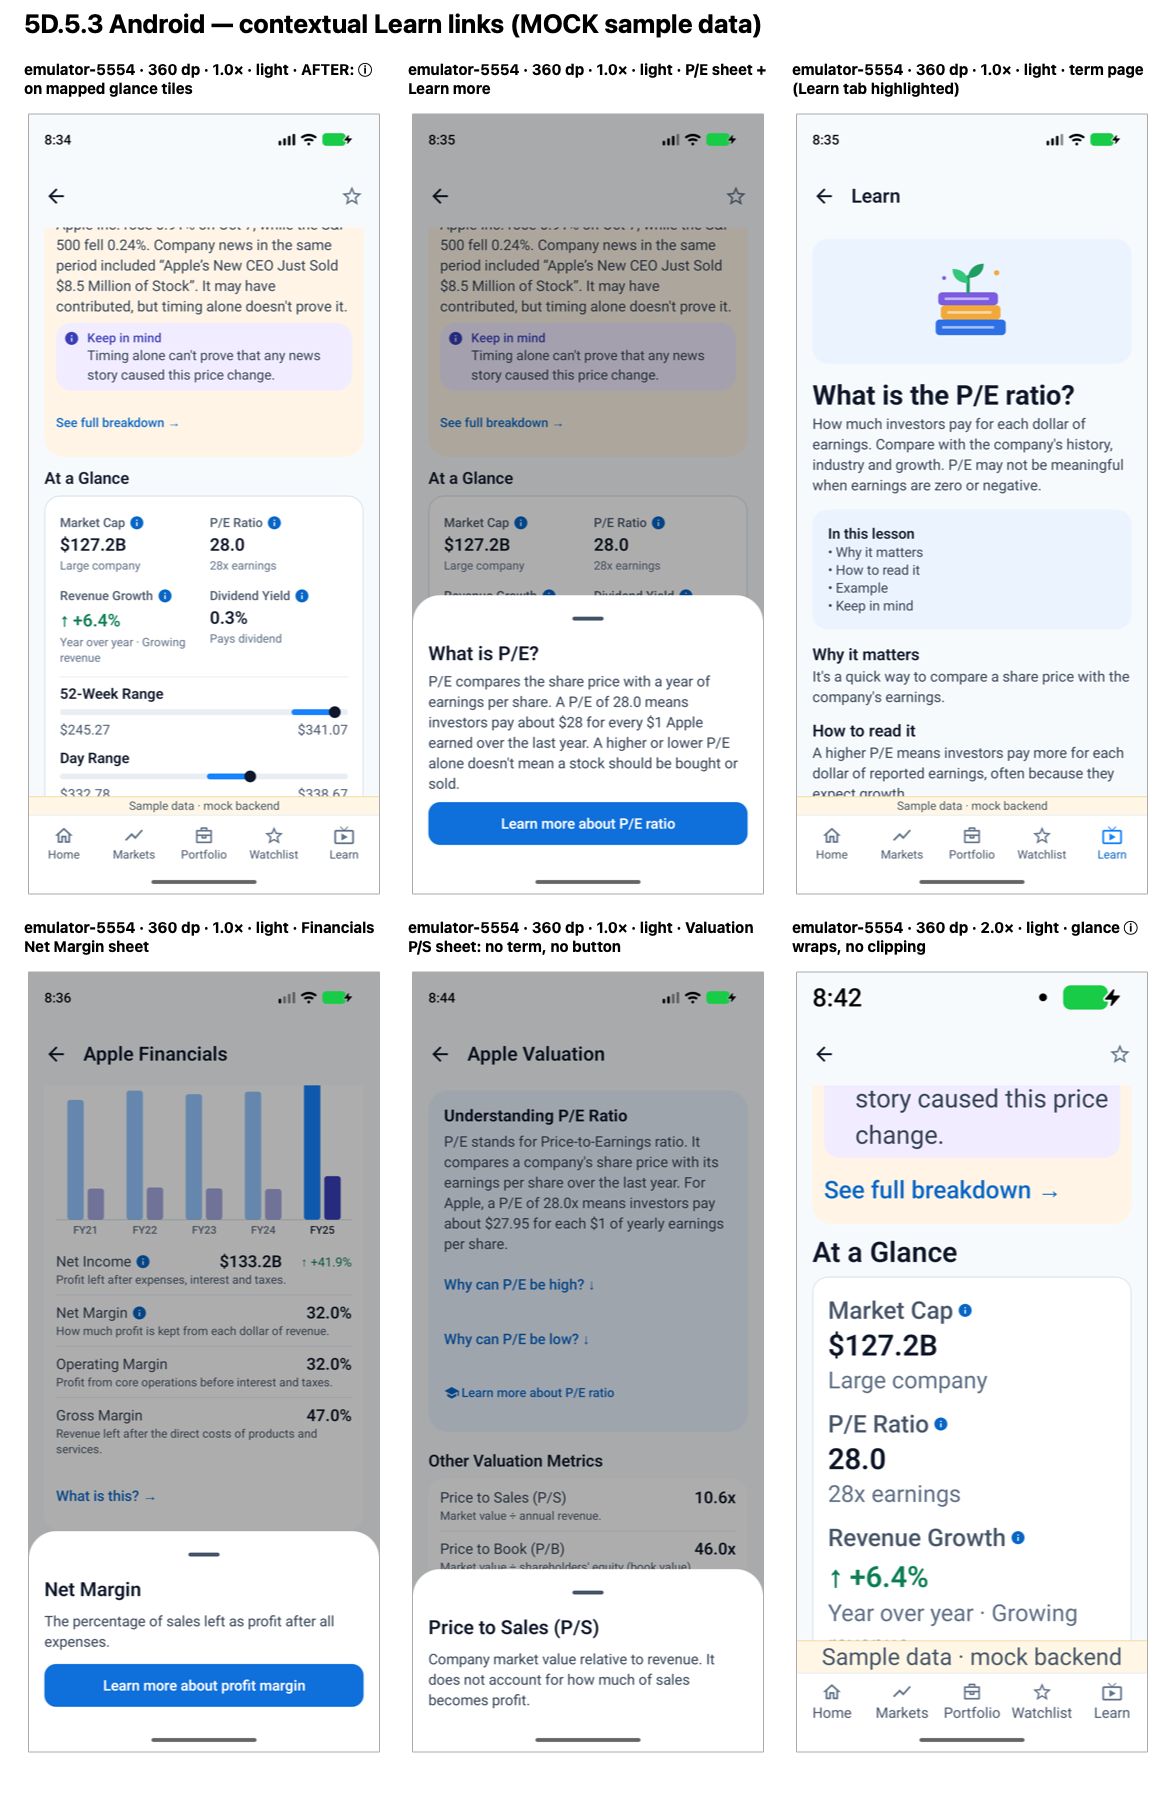
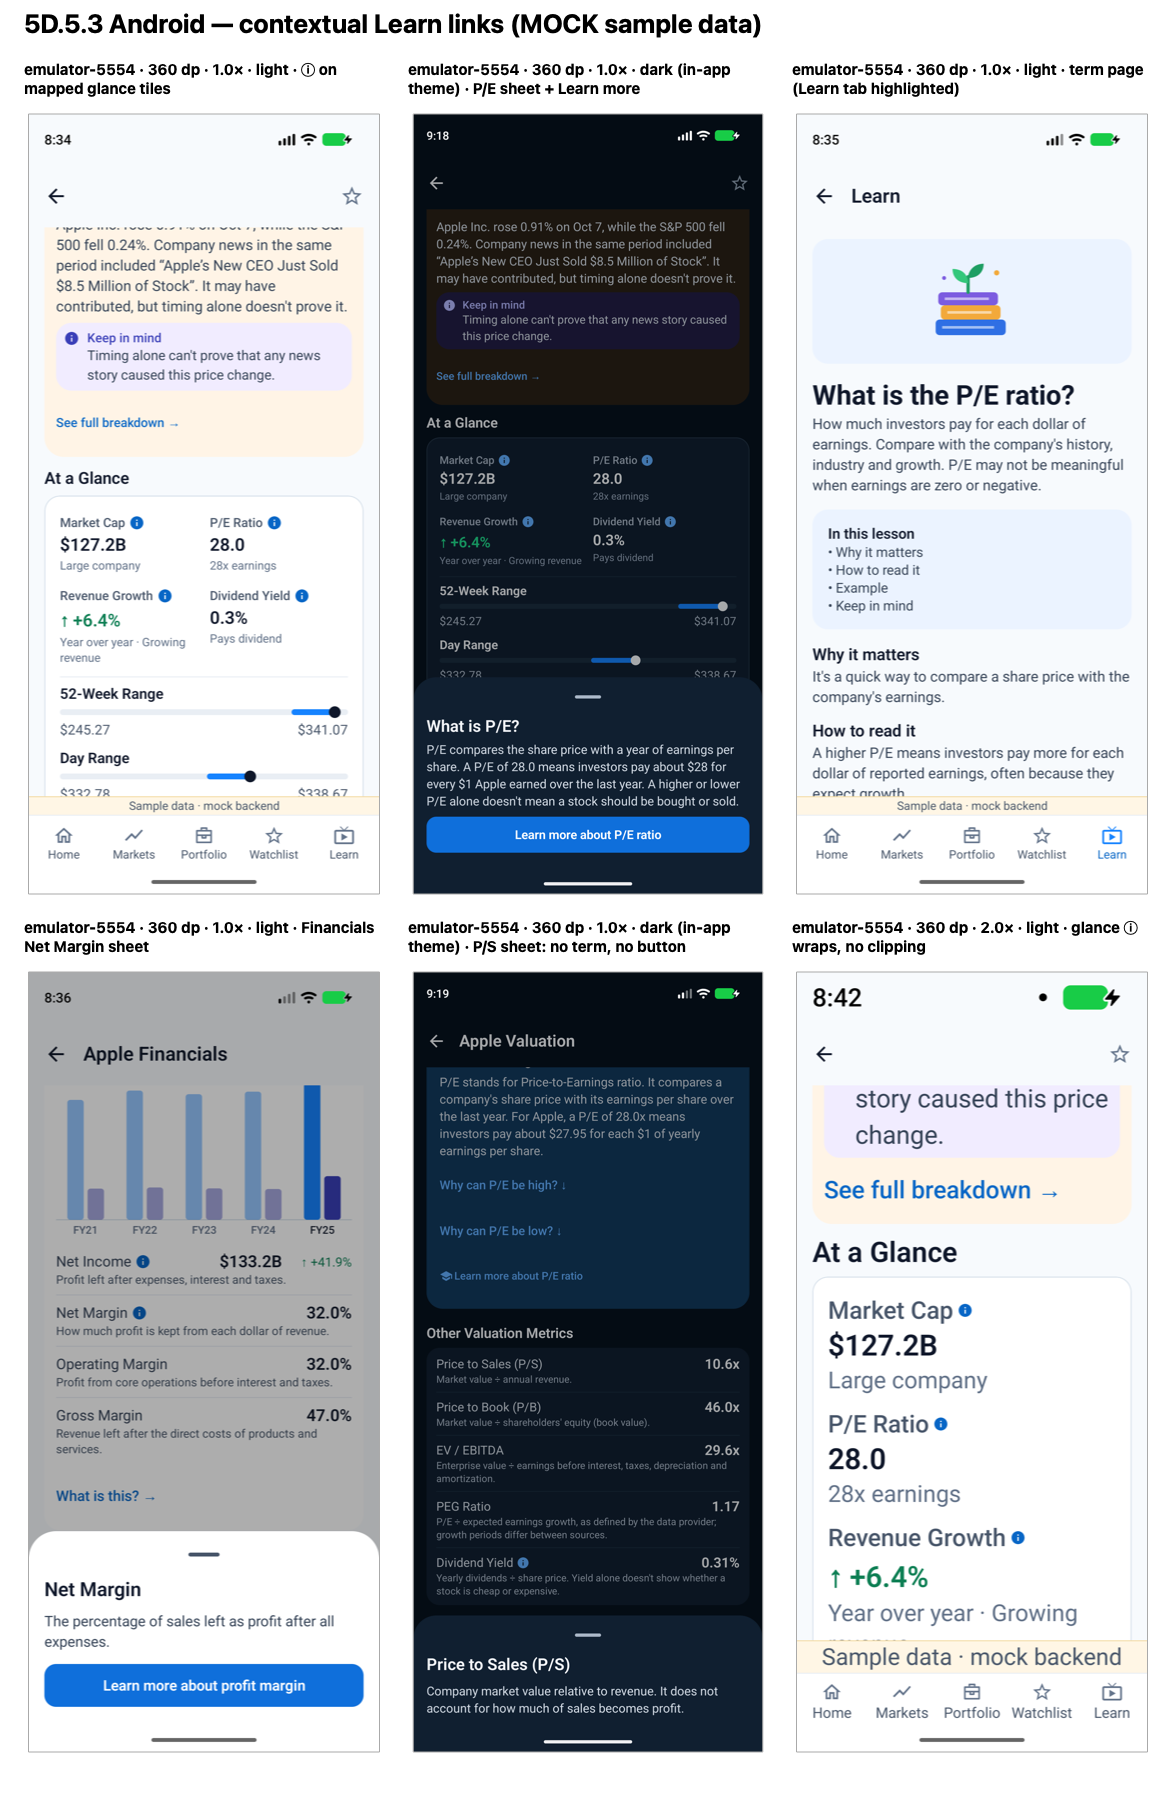
Record the closure of Global UI Refinement Phase 5D.5.3 contextual learning with the Android dark check, sheet consistency and accessibility review, and the remaining follow-ups
- Android dark via the in-app theme: PASS (glance info marks, mapped P/E sheet with Learn button, unmapped P/S sheet without); theme restored to Light.
- Mapped and unmapped explanation sheets share one component per platform; accessibility checked in code and the UI tree (headings, "Explain {label}" button roles, 48 dp targets).
- Report section 8, review package and Android contact sheet (dark tiles) updated; outstanding: iOS live Dynamic Type refresh, TalkBack/VoiceOver, iOS signed-in regression, Android Key Ratios contextual learning, intermittent PortfolioSessionStateTest timeout.
- PROJECT_HANDOFF.md, project-status.md and CLAUDE.md updated.

Changed region(s): [[0.3367, 0.0311, 0.6735, 0.9956], [0.0306, 0.0311, 0.1531, 0.0622], [0.2755, 0.0311, 0.3061, 0.0622]]

diff --git a/docs/PROJECT_HANDOFF.md b/docs/PROJECT_HANDOFF.md
@@ -1,14 +1,38 @@
-# StockSteps — session handoff (2026-10-15: Phase 5D.5.3 contextual learning committed; next: owner review of the review package)
+# StockSteps — session handoff (2026-10-15: Phase 5D.5.3 contextual learning CLOSED; next: follow-ups below, then the next refinement step after owner direction)
 
-Read order for a new session: `CLAUDE.md` → `docs/AI_REVIEW_WORKFLOW.md` (review packages, evidence and approval rules) → **§PHASE-5D-5-3-2026-10-15 below** → `docs/GLOBAL_UI_REFINEMENT_PHASE5D_5_3.md` → `docs/reviews/phase5d_5_3/CHATGPT_REVIEW_PACKAGE.md` → `docs/GLOBAL_UI_REFINEMENT_PHASE5D_5_3_PLAN.md` → §PHASE-5D-5-2-CLOSED-2026-10-15 → `docs/GLOBAL_UI_REFINEMENT_PHASE5D_5_2.md` §7 → §PHASE-5D-5-2-R2-2026-10-15 → `docs/reviews/phase5d_5_2_r2/CHATGPT_REVIEW_PACKAGE.md` → §PHASE-5D-5-2-2026-10-15 → `docs/GLOBAL_UI_REFINEMENT_PHASE5D_5_2.md` → `docs/reviews/phase5d_5_2/CHATGPT_REVIEW_PACKAGE.md` → §PHASE-5D-5-1C-2026-10-14 → `docs/GLOBAL_UI_REFINEMENT_PHASE5D_5_1C.md` → `docs/GLOBAL_UI_REFINEMENT_PHASE5D_5_1C_PLAN.md` → §PHASE-5D-5-1B-2026-10-14 → `docs/GLOBAL_UI_REFINEMENT_PHASE5D_5_1B.md` → `docs/DAILY_BRIEF_UI_REFINEMENT_PLAN.md` → §PHASE-5D-5-1-2026-10-14 → `docs/GLOBAL_UI_REFINEMENT_PHASE5D_5_1.md` → `docs/GLOBAL_UI_REFINEMENT_PHASE5D_5_PLAN.md` → §SESSION-END-2026-10-14-EARNINGS → `docs/GLOBAL_UI_REFINEMENT_PHASE5D_4_3.md` → `_5D_4_2.md` → `_5D_4.md` (incl. §5D.4.1) → `_5D_3.md` → `_5D_2.md` → §SESSION-END-2026-10-14 (earlier, superseded) → `docs/GLOBAL_UI_REFINEMENT_PHASE5D_AUDIT.md` → `docs/GLOBAL_UI_REFINEMENT_PHASE5D_1.md` / `_1A.md` / `_1B.md` → §PHASE-E-2-2026-10-13 → §SESSION-END-2026-10-13-PORTFOLIO → §PHASE-E-1-2026-10-13 → §PHASE-E-2026-10-13 → §D3-1-2026-10-13 → §D3-2026-10-13 → §D2-2026-10-13 → §D1-1-CLOSURE-2026-10-13 → §HANDOFF-2026-10-13-END → §D1-1-2026-10-13 → §D1-2026-10-12 → §C1-CLEANUP-2026-10-12 → §C1-CLOSURE-2026-10-12 → §HANDOFF-2026-10-12-END → §PORTFOLIO-PC1-2026-10-12 → §PORTFOLIO-PC-2026-10-12 → §PORTFOLIO-PB1-2026-10-12 → §PORTFOLIO-PB-2026-10-12 → §PORTFOLIO-PA-2026-10-12 → §HANDOFF-2026-10-12 → §A11Y-CLOSURE-5C → §FINAL-POLISH-5C → §CLOSURE-5C1-PA → §HANDOFF-2026-10-11 → §PHASE5C1 → §PHASE5C → §PHASE5B-CLOSURE → §PHASE5B → §NEXT → §PHASE5A1 → §PHASE5A → §PHASE4C3 → §PHASE4C2 → §PHASE4C1 → §PHASE4C → §PHASE4B1 → §PHASE4B → §PHASE4A → §SESSION → §000000000…§00000 (Global UI Refinement phases, newest first) →
+Read order for a new session: `CLAUDE.md` → `docs/AI_REVIEW_WORKFLOW.md` (review packages, evidence and approval rules) → **§PHASE-5D-5-3-CLOSED-2026-10-15 below** → `docs/GLOBAL_UI_REFINEMENT_PHASE5D_5_3.md` §8 → §PHASE-5D-5-3-2026-10-15 → `docs/GLOBAL_UI_REFINEMENT_PHASE5D_5_3.md` → `docs/reviews/phase5d_5_3/CHATGPT_REVIEW_PACKAGE.md` → `docs/GLOBAL_UI_REFINEMENT_PHASE5D_5_3_PLAN.md` → §PHASE-5D-5-2-CLOSED-2026-10-15 → `docs/GLOBAL_UI_REFINEMENT_PHASE5D_5_2.md` §7 → §PHASE-5D-5-2-R2-2026-10-15 → `docs/reviews/phase5d_5_2_r2/CHATGPT_REVIEW_PACKAGE.md` → §PHASE-5D-5-2-2026-10-15 → `docs/GLOBAL_UI_REFINEMENT_PHASE5D_5_2.md` → `docs/reviews/phase5d_5_2/CHATGPT_REVIEW_PACKAGE.md` → §PHASE-5D-5-1C-2026-10-14 → `docs/GLOBAL_UI_REFINEMENT_PHASE5D_5_1C.md` → `docs/GLOBAL_UI_REFINEMENT_PHASE5D_5_1C_PLAN.md` → §PHASE-5D-5-1B-2026-10-14 → `docs/GLOBAL_UI_REFINEMENT_PHASE5D_5_1B.md` → `docs/DAILY_BRIEF_UI_REFINEMENT_PLAN.md` → §PHASE-5D-5-1-2026-10-14 → `docs/GLOBAL_UI_REFINEMENT_PHASE5D_5_1.md` → `docs/GLOBAL_UI_REFINEMENT_PHASE5D_5_PLAN.md` → §SESSION-END-2026-10-14-EARNINGS → `docs/GLOBAL_UI_REFINEMENT_PHASE5D_4_3.md` → `_5D_4_2.md` → `_5D_4.md` (incl. §5D.4.1) → `_5D_3.md` → `_5D_2.md` → §SESSION-END-2026-10-14 (earlier, superseded) → `docs/GLOBAL_UI_REFINEMENT_PHASE5D_AUDIT.md` → `docs/GLOBAL_UI_REFINEMENT_PHASE5D_1.md` / `_1A.md` / `_1B.md` → §PHASE-E-2-2026-10-13 → §SESSION-END-2026-10-13-PORTFOLIO → §PHASE-E-1-2026-10-13 → §PHASE-E-2026-10-13 → §D3-1-2026-10-13 → §D3-2026-10-13 → §D2-2026-10-13 → §D1-1-CLOSURE-2026-10-13 → §HANDOFF-2026-10-13-END → §D1-1-2026-10-13 → §D1-2026-10-12 → §C1-CLEANUP-2026-10-12 → §C1-CLOSURE-2026-10-12 → §HANDOFF-2026-10-12-END → §PORTFOLIO-PC1-2026-10-12 → §PORTFOLIO-PC-2026-10-12 → §PORTFOLIO-PB1-2026-10-12 → §PORTFOLIO-PB-2026-10-12 → §PORTFOLIO-PA-2026-10-12 → §HANDOFF-2026-10-12 → §A11Y-CLOSURE-5C → §FINAL-POLISH-5C → §CLOSURE-5C1-PA → §HANDOFF-2026-10-11 → §PHASE5C1 → §PHASE5C → §PHASE5B-CLOSURE → §PHASE5B → §NEXT → §PHASE5A1 → §PHASE5A → §PHASE4C3 → §PHASE4C2 → §PHASE4C1 → §PHASE4C → §PHASE4B1 → §PHASE4B → §PHASE4A → §SESSION → §000000000…§00000 (Global UI Refinement phases, newest first) →
 `docs/GLOBAL_UI_REFINEMENT_PLAN.md` → `docs/GLOBAL_UI_REFINEMENT_PHASE3_PORTFOLIO.md` + `docs/GLOBAL_UI_REFINEMENT_PHASE3_1_POLISH.md` →
 §0000 (Phase 5C.1) → `docs/project-status.md` §0 → root `PROJECT_HANDOFF.md` → the code.
 Always start with `git status` and `git log -5 --oneline`; the repository is authoritative when docs disagree.
 
+## PHASE-5D-5-3-CLOSED-2026-10-15. Contextual learning closed — START HERE
+
+- **Status:** the owner approved closing Phase 5D.5.3. The implementation is `3b7a7f5` (pushed).
+- **Current commit:** "Record the closure of Global UI Refinement Phase 5D.5.3 contextual learning with the Android dark check, sheet consistency
+  and accessibility review, and the remaining follow-ups" (this commit). It is local only: **not pushed**, pending the owner's approval.
+- **Final verification:** `docs/GLOBAL_UI_REFINEMENT_PHASE5D_5_3.md` §8.
+  - Scope check: the 36 files of `3b7a7f5` all belong to the phase; the Portfolio worktree is untouched.
+  - Android dark via the in-app theme: PASS (restored to Light).
+  - Mapped vs unmapped sheets: consistent (one component; the button only with a term).
+  - Accessibility in code and UI tree: headings, "Explain {label}" button roles, 48 dp targets.
+  - The Android contact sheet now includes the dark tiles.
+- **Outstanding items (keep open):**
+  1. iOS live Dynamic Type refresh: rows resize after reopening the screen (existing limit).
+  2. TalkBack NOT RUN; VoiceOver BLOCKED (device).
+  3. iOS signed-in regression: BLOCKED (guest mode).
+  4. Android Company Details "Key Ratios" card: contextual-learning opportunity (EPS, Debt to Equity have terms).
+  5. Intermittent `PortfolioSessionStateTest` timeout (core JVM); fix uncommitted in worktree `charming-hodgkin-98e850` (don't modify from here).
+  - Also noted: the Settings theme chips don't report a selected state in the UI tree (outside this phase).
+- **Still open from earlier:** see §PHASE-5D-5-2-CLOSED-2026-10-15 (iOS AX5 term-footer icons, `UserDataRepositoriesTest`, iOS Earnings Details
+  after sign-in, iOS Home AX5 heading).
+- **Environment:** MOCK server stopped; emulator Light theme, font 1.0, `adb reverse` removed; simulator light, Default text size, guest mode.
+- **Next:** push this closure commit on the owner's request; then Global UI Refinement step 7 (Settings, auth, remaining screens) after owner
+  direction (plan first).
+
 ## PHASE-5D-5-3-2026-10-15. Contextual learning (Phase 5D.5.3) — START HERE
 
 ### 0. Repository state
-- **Current commit:** "Add contextual Learn links for Global UI Refinement Phase 5D.5.3 with an info mark on metrics that have a Learn term, explanation sheets for Financials and Valuation rows, and Learn more buttons that open the term page on the same stack on Android and iOS" (this commit, pushed). Base: `600c295`.
+- **Implementation commit:** `3b7a7f5`, "Add contextual Learn links for Global UI Refinement Phase 5D.5.3 with an info mark on metrics that have a Learn term, explanation sheets for Financials and Valuation rows, and Learn more buttons that open the term page on the same stack on Android and iOS" (pushed). Base: `600c295`.
 - Plan: `docs/GLOBAL_UI_REFINEMENT_PHASE5D_5_3_PLAN.md` (approved: A, then B+C, then D; D-C1 to D-C6 as recommended).
 - Report: `docs/GLOBAL_UI_REFINEMENT_PHASE5D_5_3.md`. Review package: `docs/reviews/phase5d_5_3/` (report, Android/iOS contact sheets, focused
   diff; `captures/` stays local and git-ignored). Reference images: `docs/design/phase5d_5_3/`.

diff --git a/docs/GLOBAL_UI_REFINEMENT_PHASE5D_5_3.md b/docs/GLOBAL_UI_REFINEMENT_PHASE5D_5_3.md
@@ -73,7 +73,7 @@ rebuilt (PASS) and re-checked on device. No Kotlin changed after the test run.
 | Valuation: "Learn more about P/E ratio" link → term; Back → Apple Valuation | PASS |
 | Valuation: P/S sheet shows its explanation, no Learn button | PASS |
 | 2.0× glance: tiles stack, ⓘ inline after the label, no clipping | PASS |
-| Dark theme | NOT RUN (the app keeps its own Light setting, so system night mode has no effect; not changed for this check) |
+| Dark theme | PASS at closure (Settings → Appearance → Dark, then restored to Light): glance ⓘ, P/E sheet with button, P/S sheet without; see §8 |
 
 ### iOS: iPhone 16 simulator, MOCK, guest mode (never signed in)
 | Check | Result |
@@ -87,19 +87,53 @@ rebuilt (PASS) and re-checked on device. No Kotlin changed after the test run.
 | Dark (Default size): Valuation link and rows readable | PASS |
 | AX5 (dark): glance labels wrap with the ⓘ kept on the last word; sheet button wraps to full width and is reachable by scrolling | PASS |
 
-## 5. Known issues and limits
-- **iOS live Dynamic Type:** switching to AX5 while Valuation was open resized the headings but not the rows until the screen was reopened. This
-  is the existing live-refresh limit noted in `CLAUDE.md`, not new in this phase. A fresh render at AX5 is correct.
-- **iOS "Understand Apple" → Valuation row:** this row opens the P/E sheet (existing behaviour), which now also offers the Learn button.
-- **Company Details "Key Ratios" card** (Android) stays non-interactive. It is not in the approved scope.
-- **Screen readers:**
-  - TalkBack: NOT RUN.
-  - VoiceOver: BLOCKED (needs a device).
-  - The rows carry "Explain {label}" labels and hints, but they are not verified by ear.
-- **iOS signed-in flows:** BLOCKED (guest mode only; Claude never signs in). The changed screens don't depend on sign-in.
+## 5. Known issues and limits (outstanding items)
+1. **iOS live Dynamic Type refresh:** switching to AX5 while Valuation is open resizes the headings but not the rows until the screen is
+   reopened. This is the existing live-refresh limit noted in `CLAUDE.md`, not new in this phase. A fresh render at AX5 is correct.
+2. **TalkBack and VoiceOver:**
+   - TalkBack: NOT RUN (its first start asks for a notification permission the owner must answer).
+   - VoiceOver: BLOCKED (needs a device).
+   - Labels, roles and target sizes were checked in code and in the UI tree (§8), but not by ear.
+3. **iOS signed-in regression:** BLOCKED (guest mode only; Claude never signs in). The changed screens don't depend on sign-in, but signed-in
+   navigation around them is unverified.
+4. **Android Company Details "Key Ratios" card:** still non-interactive. This is a contextual-learning opportunity (its EPS and Debt to Equity
+   rows have terms), left for a later phase; not in the approved scope.
+5. **Intermittent `PortfolioSessionStateTest` timeout** (core JVM, 5 s): failed once in the full run and passed on rerun. Unrelated to this
+   phase; the candidate fix is uncommitted in worktree `charming-hodgkin-98e850`, which this phase did not touch.
+- Also noted: the iOS "Understand Apple" → Valuation row opens the P/E sheet (existing behaviour), which now also offers the Learn button.
 
 ## 6. Deviations from the plan
 - One alignment fix (iOS glance sheet keyed by `educationId`, see §4). Nothing else.
 
 ## 7. Verdict
-**PASS WITH CONDITIONS**: Android dark, TalkBack and VoiceOver remain open. Committed and pushed at the owner's request; the open checks above remain.
+**PASS WITH CONDITIONS**: approved by the owner and closed; items 2 and 3 in §5 remain open.
+
+## 8. Closure verification (2026-10-15)
+- **Scope:**
+  - The implementation is commit `3b7a7f5` ("Add contextual Learn links for Global UI Refinement Phase 5D.5.3 …", pushed): 36 files, all in this
+    phase (core mapping and test, tagged rows, shared/iOS Company Details, Financials and Valuation screens, design-system parameters, docs,
+    review package, reference images).
+  - The working tree was clean before closure, and the Portfolio worktree `charming-hodgkin-98e850` was not modified.
+  - The closure commit contains documentation and the updated Android contact sheet only.
+- **Android dark (in-app theme):** PASS.
+  - Setup: emulator-5554, MOCK, 1.0×, Settings → Appearance → Dark.
+  - Glance ⓘ markers are visible on the dark surface.
+  - The mapped P/E sheet shows the company sentence and "Learn more about P/E ratio" (primary fill, white text).
+  - The unmapped Valuation P/S sheet uses the same handle, title and body, with no button.
+  - The theme was restored to Light afterwards; the MOCK server is stopped and `adb reverse` removed.
+  - Captures: Android contact sheet tiles 2 and 5; originals in `docs/reviews/phase5d_5_3/captures/` (git-ignored).
+- **Mapped vs unmapped sheet consistency:** PASS.
+  - Both kinds go through one component per platform: Compose `MetricExplanationSheet` / `EducationSheet`, and iOS
+    `MetricExplanationSheet` / `InfoSheet`.
+  - The Learn button (`MetricLearnMore` / `MetricLearnMoreButton`) renders nothing when the term is null, so an unmapped sheet differs only by the
+    missing button.
+  - Confirmed on device in light and dark (Android) and in light, dark and AX5 (iOS).
+- **Accessibility (code and UI tree):** PASS, with screen readers still open (§5 item 2).
+  - Sheet titles are headings.
+  - Tappable rows use `clickable(onClickLabel = "Explain {label}", role = Role.Button)` with a 48 dp minimum height (iOS: a 48 pt `Button`
+    with an accessibility hint).
+  - The ⓘ is decorative; the click label carries the meaning.
+  - UI tree at 480 dpi: the Learn button is 144 px tall (48 dp) and the sheet handle 144 × 144 px.
+  - The sheet closes before navigating.
+  - Observed outside this phase: the Settings theme chips don't report a selected state in the UI tree (seen while switching the theme for
+    this check).

diff --git a/docs/project-status.md b/docs/project-status.md
@@ -6,13 +6,25 @@ milestone log and validation history are in `PROJECT_HANDOFF.md`.
 
 ## 0. Current task and next steps (read first)
 
+**2026-10-15 — Phase 5D.5.3 contextual learning CLOSED (owner approval).**
+- Implementation `3b7a7f5` (pushed). Closure verification: `docs/GLOBAL_UI_REFINEMENT_PHASE5D_5_3.md` §8.
+  - Android dark via the in-app theme: PASS.
+  - Mapped and unmapped sheets: consistent.
+  - Accessibility in code and UI tree: PASS.
+- **Outstanding:**
+  - iOS live Dynamic Type refresh (existing limit);
+  - TalkBack NOT RUN, VoiceOver BLOCKED;
+  - iOS signed-in regression BLOCKED;
+  - Android "Key Ratios" contextual-learning opportunity;
+  - intermittent `PortfolioSessionStateTest` timeout.
+- **Next:** Global UI Refinement step 7 after owner direction.
+
 **2026-10-15 — Phase 5D.5.3 contextual learning (committed and pushed as "Add contextual Learn links for Global UI Refinement Phase 5D.5.3 with an info mark on metrics that have a Learn term, explanation sheets for Financials and Valuation rows, and Learn more buttons that open the term page on the same stack on Android and iOS").**
 - Company Details glance tiles, Financials rows and Valuation rows explain their metric; metrics with a Learn term show ⓘ and "Learn more about
   {term}", which opens the term page on the same stack (Back returns to the stock).
 - Mapping by id only in core `MetricLearnTerms` (tested); no new educational text, no backend changes.
 - Report `docs/GLOBAL_UI_REFINEMENT_PHASE5D_5_3.md`; review package `docs/reviews/phase5d_5_3/`.
-- **Outstanding:** Android dark NOT RUN; screen readers NOT RUN/BLOCKED; iOS signed-in BLOCKED.
-- **Next:** owner review.
+- Closed; see the entry above.
 
 **2026-10-15 — Phase 5D.5.2 Learn CLOSED (owner approval).**
 - Implementation `057d6e6` + `0730773` (pushed). Final verification and limitations: `docs/GLOBAL_UI_REFINEMENT_PHASE5D_5_2.md` §7.

diff --git a/CLAUDE.md b/CLAUDE.md
@@ -15,19 +15,19 @@ Philosophy: **NUMBER → CONTEXT → EXPLANATION → EDUCATION**. Journey: Learn
 Understand. It is not a trading terminal and never gives buy/sell/hold advice, scores, ratings or
 price predictions. Advanced analytics belong to a separate product, **PortIQX**.
 
-## Current task (as of 2026-10-15, Phase 5D.5.3 contextual learning committed)
+## Current task (as of 2026-10-15, Phase 5D.5.3 contextual learning closed)
 
 Phase 5D.5.3 ("Add contextual Learn links for Global UI Refinement Phase 5D.5.3 with an info mark on metrics that have a Learn term, explanation sheets for Financials and Valuation rows, and Learn more buttons that open the term page on the same stack on Android and iOS") is committed and pushed on top of the Learn closure (`600c295`).
 Report: `docs/GLOBAL_UI_REFINEMENT_PHASE5D_5_3.md`; review package: `docs/reviews/phase5d_5_3/`.
-**Start with `docs/PROJECT_HANDOFF.md` §PHASE-5D-5-3-2026-10-15.**
-Next: owner review.
+**Start with `docs/PROJECT_HANDOFF.md` §PHASE-5D-5-3-CLOSED-2026-10-15** (closure verification: report §8).
+Next: Global UI Refinement step 7 after owner direction.
 Tracked separately:
 - the `PortfolioSessionStateTest` fix (uncommitted, worktree `charming-hodgkin-98e850`);
 - the intermittent `UserDataRepositoriesTest` on core iOS.
 Still open:
 - iOS Earnings Details after the owner signs in;
 - the iOS Home AX5 heading break and history navigation;
-- Android dark check for 5D.5.3 (the app's own theme setting).
+- 5D.5.3 follow-ups: TalkBack/VoiceOver, iOS signed-in regression, Android "Key Ratios" contextual learning.
 The iPhone 16 simulator app is in guest mode.
 
 Earlier: Learn closed with 5D.5.2 (`057d6e6`, `0730773`, `600c295`), see §PHASE-5D-5-2-CLOSED-2026-10-15 in the handoff.

diff --git a/docs/reviews/phase5d_5_3/CHATGPT_REVIEW_PACKAGE.md b/docs/reviews/phase5d_5_3/CHATGPT_REVIEW_PACKAGE.md
@@ -39,8 +39,7 @@
 ## 6. Android verification
 emulator-5554, 360 dp, MOCK:
 - **PASS:** glance ⓘ; P/E sheet → term (Learn tab highlighted) → Back; Net Margin sheet with Learn; Operating Margin and P/S sheets without it;
-  Valuation link → term → Back; 2.0× glance without clipping.
-- **NOT RUN:** dark (the app's own Light setting).
+  Valuation link → term → Back; 2.0× glance without clipping; dark via the in-app theme at closure (P/E sheet with button, P/S sheet without).
 - Sheet: `CHATGPT_UI_REVIEW_ANDROID.png`.
 
 ## 7. iOS verification
@@ -54,15 +53,15 @@ iPhone 16, MOCK, guest:
 - The Android Company Details "Key Ratios" card is not tappable (out of scope).
 
 ## 9. Unverified scenarios
-- **NOT RUN:** Android dark; TalkBack.
+- **NOT RUN:** TalkBack.
 - **BLOCKED:** VoiceOver (needs a device); iOS signed-in flows (guest only, never signed in).
 
 ## 10. Deviations
 - One line: the iOS glance sheet looks up its term by `educationId`, the same key the ⓘ and Android use. Rebuilt and re-checked.
 
 ## 11. Owner decisions
-- Close 5D.5.3 after review (committed and pushed at the owner's request).
-- Optional follow-ups: make the "Key Ratios" rows explainable; run Android dark with the in-app theme.
+- Closed by the owner on 2026-10-15 (report §8).
+- Optional follow-ups: make the "Key Ratios" rows explainable; fix the intermittent `PortfolioSessionStateTest` timeout (separate worktree).
 
 ## 12. Links
 - Report: `docs/GLOBAL_UI_REFINEMENT_PHASE5D_5_3.md`; plan: `docs/GLOBAL_UI_REFINEMENT_PHASE5D_5_3_PLAN.md`.
